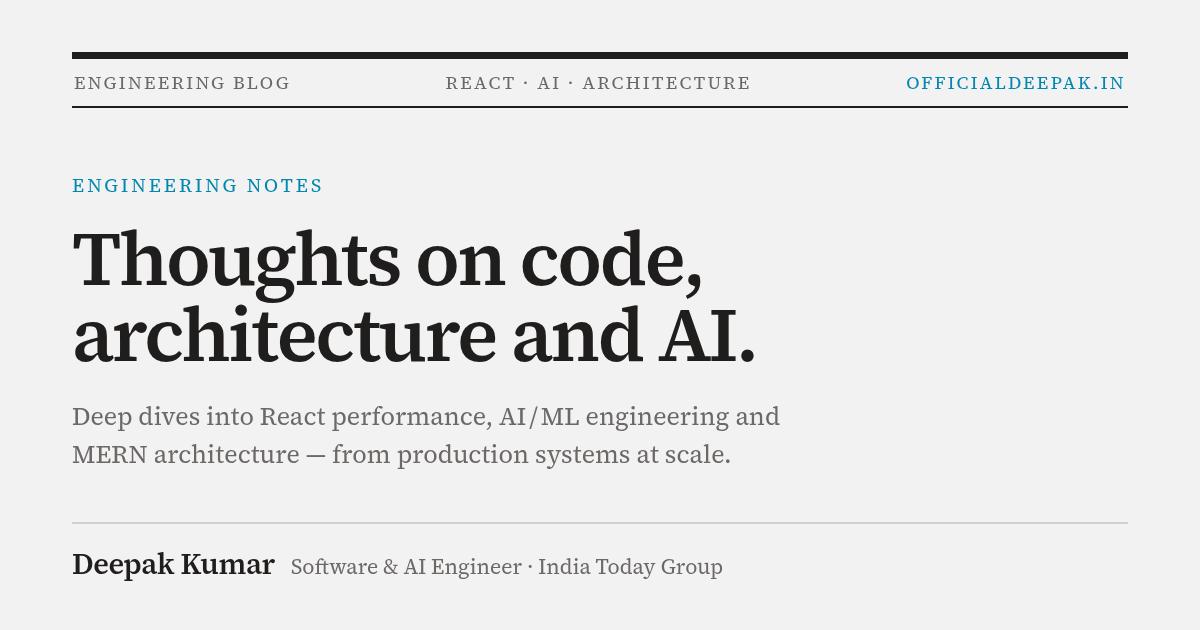
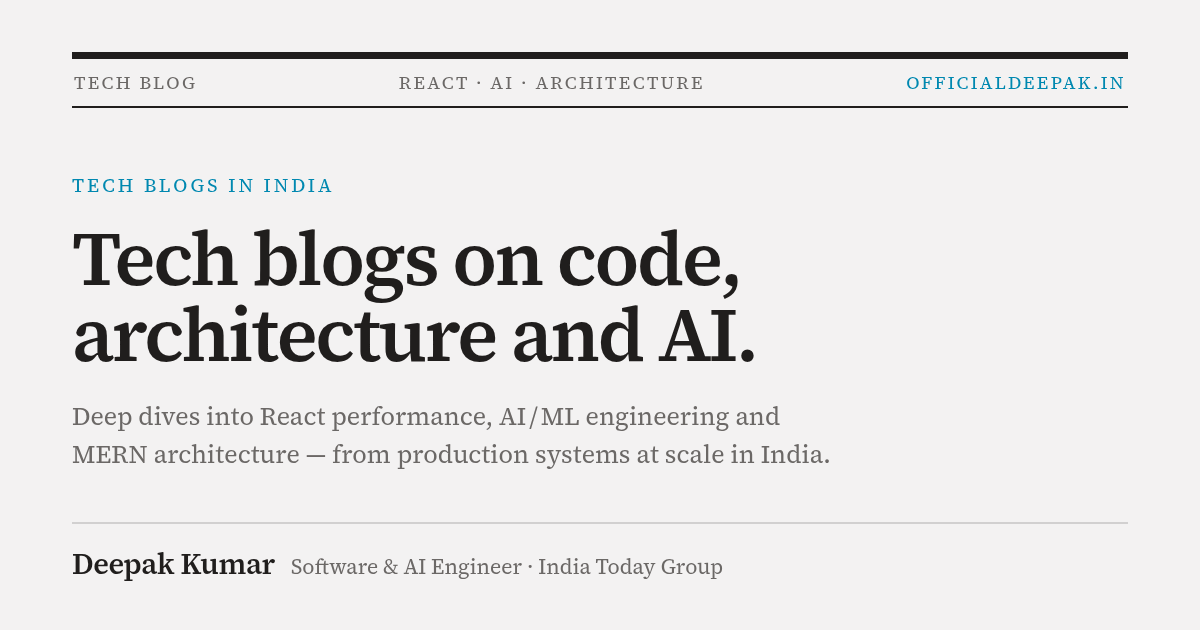
adsf

diff --git a/scripts/og-blog.html b/scripts/og-blog.html
@@ -7,6 +7,11 @@
   page it opens rather than as the generic portrait card every other route
   shares.
 
+  The kicker, headline and dateline below are the same strings as the ones in
+  components/blog/BlogIndexView.tsx. That is the point of the card: someone who
+  clicks the preview should land on the page it showed them. If the copy there
+  changes, change it here and re-run the two commands below.
+
   Regenerate after a design change (run `npm run build` first so the font
   file below exists):
 
@@ -91,15 +96,15 @@
 <div class="card">
 <div class="rail-thick"></div>
 <div class="dateline">
-  <span>Engineering blog</span>
+  <span>Tech blog</span>
   <span>React &middot; AI &middot; Architecture</span>
   <span class="spot">officialdeepak.in</span>
 </div>
 <div class="rail-thin"></div>
 
-<p class="kicker">Engineering notes</p>
-<h1>Thoughts on code, architecture and AI.</h1>
-<p class="lede">Deep dives into React performance, AI&thinsp;/&thinsp;ML engineering and MERN architecture &mdash; from production systems at scale.</p>
+<p class="kicker">Tech blogs in India</p>
+<h1>Tech blogs on code, architecture and AI.</h1>
+<p class="lede">Deep dives into React performance, AI&thinsp;/&thinsp;ML engineering and MERN architecture &mdash; from production systems at scale in India.</p>
 
 <div class="foot">
   <div class="footrule"></div>
